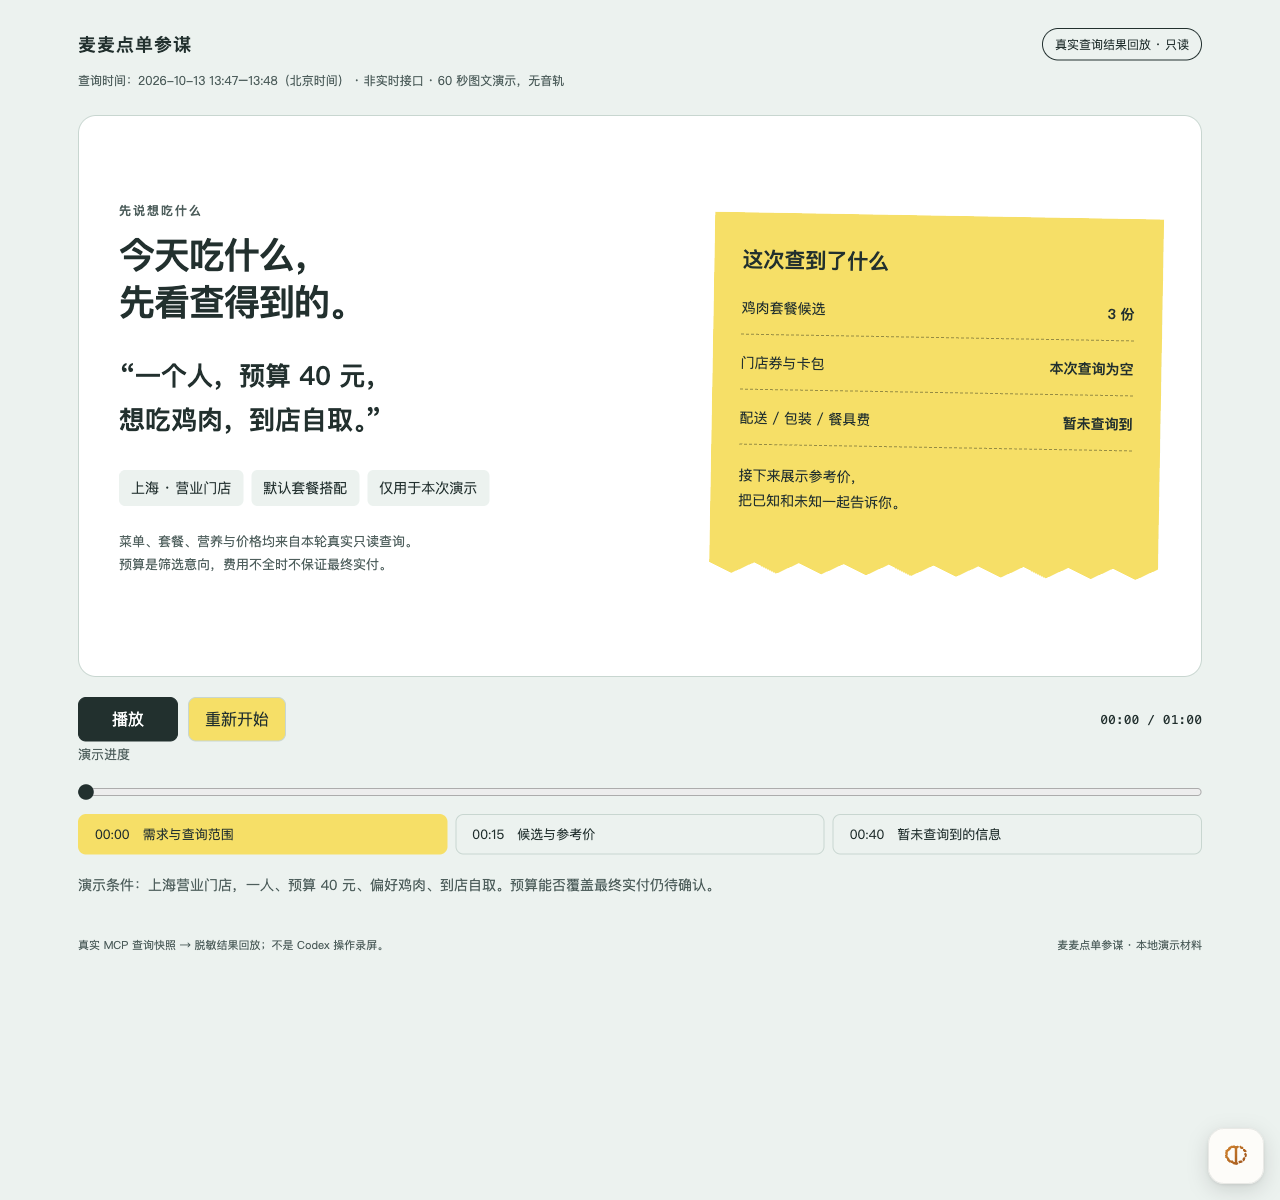
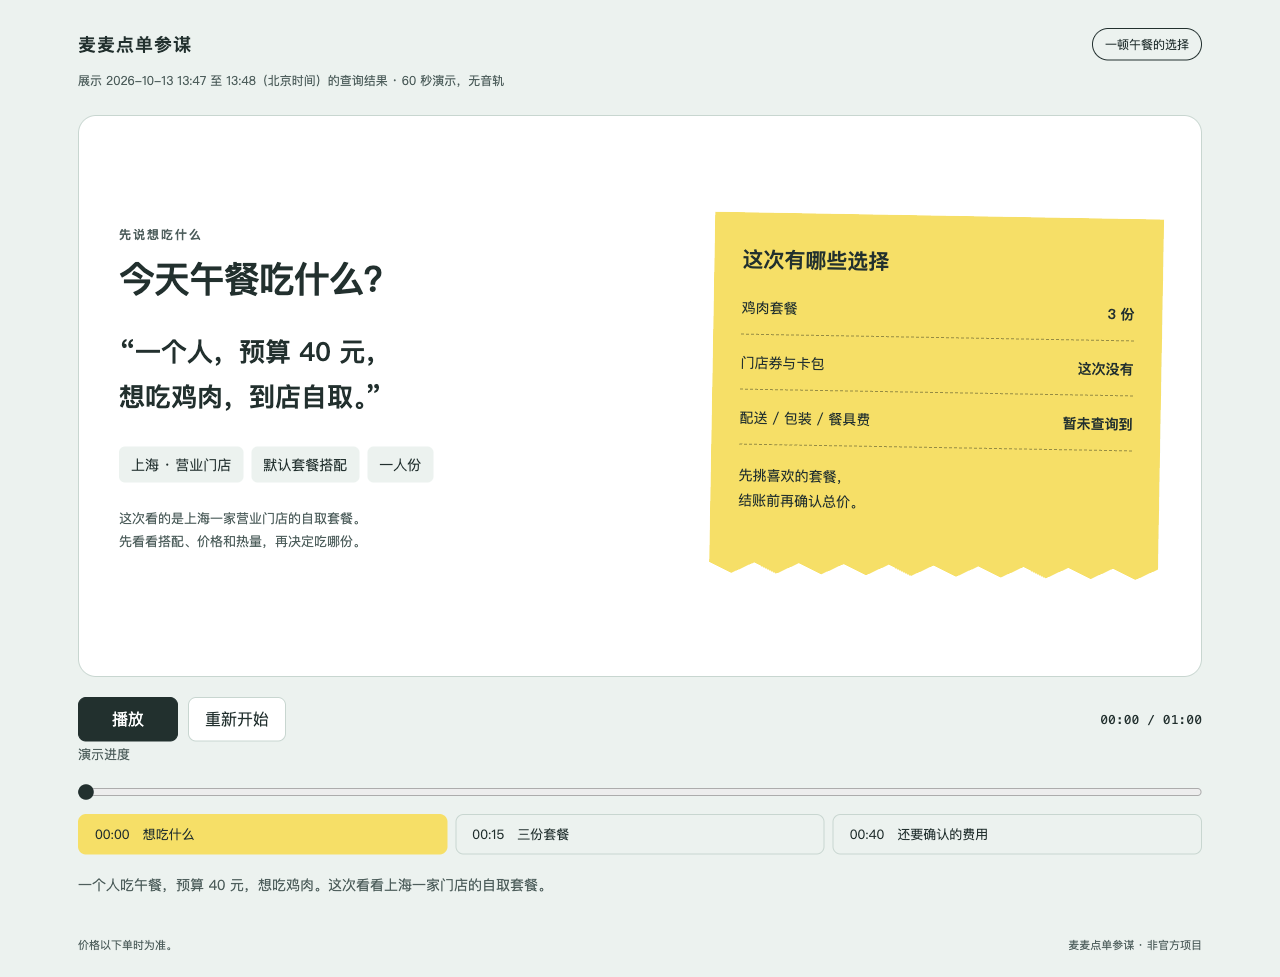
docs: 精简演示文案并更新截图

diff --git a/docs/demos/readonly-2026-10-13/index.html b/docs/demos/readonly-2026-10-13/index.html
@@ -2,27 +2,27 @@
 <html lang="zh-CN">
 <head>
 <meta charset="utf-8"><meta name="viewport" content="width=device-width,initial-scale=1">
-<title>麦麦点单参谋 · 真实只读查询回放</title>
+<title>麦麦点单参谋 · 午餐怎么选</title>
 <style>
 :root{--ink:#203735;--muted:#536a67;--yellow:#ffe169;--paper:#fff;--bg:#edf4f1;--line:#ccdcd6;--orange:#ad411b}
 *{box-sizing:border-box}body{margin:0;background:var(--bg);color:var(--ink);font-family:"PingFang SC","Microsoft YaHei",sans-serif}button,input{font:inherit}button{cursor:pointer}button:focus-visible,input:focus-visible,a:focus-visible{outline:3px solid var(--orange);outline-offset:4px}button{border:1px solid var(--line);border-radius:8px;background:white;color:var(--ink);padding:10px 16px}button:hover{background:var(--yellow)}.shell{max-width:1200px;margin:0 auto;padding:28px 38px 24px}.masthead{display:flex;justify-content:space-between;gap:24px;align-items:center;font-size:14px}.brand{font-weight:750;letter-spacing:1px;font-size:18px}.badge{border:1px solid var(--ink);padding:7px 12px;border-radius:30px;font-size:12px}.snapshot{font-size:12px;color:var(--muted);margin:12px 0 26px}.viewer{background:white;border-radius:18px;overflow:hidden;border:1px solid var(--line);min-height:560px}.scene{padding:36px 40px;min-height:560px}.scene[hidden]{display:none}.eyebrow{font-size:12px;font-weight:700;color:var(--muted);letter-spacing:2px}.scene h1,.scene h2{font-size:36px;line-height:1.3;margin:13px 0 16px;letter-spacing:-1px;font-weight:800}.lede{font-size:17px;line-height:1.8;color:var(--muted);margin:0 0 24px}.intro{display:grid;grid-template-columns:1.2fr 1fr;gap:54px;align-items:center;min-height:488px}.prompt{font-size:26px;font-weight:650;line-height:1.7;margin:28px 0}.chips{display:flex;flex-wrap:wrap;gap:8px}.chips span{background:var(--bg);padding:8px 12px;border-radius:6px;font-size:14px}.receipt{background:var(--yellow);padding:32px 28px;transform:rotate(1deg);box-shadow:8px 10px 0 var(--bg);clip-path:polygon(0 0,100% 0,100% 97%,95% 100%,90% 97%,85% 100%,80% 97%,75% 100%,70% 97%,65% 100%,60% 97%,55% 100%,50% 97%,45% 100%,40% 97%,35% 100%,30% 97%,25% 100%,20% 97%,15% 100%,10% 97%,5% 100%,0 97%)}.receipt h3{font-size:21px;margin:0 0 24px}.receipt p{display:flex;justify-content:space-between;border-bottom:1px dashed #a49547;padding-bottom:16px;margin:18px 0;font-size:14px}.receipt p:last-child{border:0;display:block;line-height:1.8;margin-bottom:12px}.cards{display:grid;grid-template-columns:repeat(3,1fr);gap:16px;margin:26px 0 20px}.meal{border:1px solid var(--line);border-radius:12px;padding:23px 20px 20px;background:var(--paper)}.meal h3{font-size:19px;margin:0 0 12px}.meal .parts{font-size:13px;color:var(--muted);line-height:1.8;min-height:47px;margin:0}.price-label{font-size:12px;color:var(--muted);margin:20px 0 3px}.price{font-family:"Avenir Next",sans-serif;font-weight:700;font-size:44px;letter-spacing:-2px;font-variant-numeric:tabular-nums}.price small{font-size:22px;letter-spacing:0;margin-right:5px}.nutrition{border-top:1px solid var(--line);margin-top:17px;padding-top:17px;font-size:14px;line-height:1.6}.nutrition strong{font-size:19px}.missing{color:var(--orange)}.note{font-size:13px;line-height:1.8;color:var(--muted)}.callout{padding:16px 20px;background:var(--yellow);border-radius:8px;font-size:15px;line-height:1.7}.unknown-grid{display:grid;grid-template-columns:1.15fr 1fr;gap:32px;margin:24px 0}.fees{border-top:1px solid var(--line)}.fee{display:flex;justify-content:space-between;gap:16px;padding:18px 0;border-bottom:1px solid var(--line);font-size:16px}.fee strong{color:var(--orange);font-weight:600}.explanation{background:var(--bg);border-radius:12px;padding:22px;font-size:15px;line-height:1.9}.explanation h3{margin:0 0 8px;font-size:20px}.explanation p{margin:0 0 12px}.explanation p:last-child{margin:0}.readonly{display:flex;gap:18px;align-items:center;margin-top:22px;font-size:14px}.readonly strong{padding:8px 12px;background:var(--ink);color:white;border-radius:5px}.controls{margin-top:20px}.control-row{display:flex;align-items:center;gap:10px}.primary{background:var(--ink);color:white;border-color:var(--ink);min-width:100px}.primary:hover{background:#345b57}.time{font-family:monospace;font-size:13px;white-space:nowrap;margin-left:auto}input[type=range]{width:100%;accent-color:var(--ink);margin:18px 0 14px;cursor:pointer}.chapters{display:flex;gap:8px}.chapters button{flex:1;text-align:left;font-size:13px;background:transparent}.chapters button[aria-current=true]{background:var(--yellow);border-color:transparent}.caption{min-height:45px;font-size:14px;line-height:1.8;color:var(--muted);margin:18px 0 0}.footer{display:flex;justify-content:space-between;gap:20px;font-size:11px;color:var(--muted);margin-top:20px}.footer a{color:inherit}.scene{animation:appear .35s ease}@keyframes appear{from{opacity:0;transform:translateY(5px)}to{opacity:1;transform:none}}@media(prefers-reduced-motion:reduce){.scene{animation:none}.receipt{transform:none}}@media(max-width:760px){.shell{padding:20px 16px}.masthead{align-items:flex-start;gap:10px}.brand{font-size:16px}.badge{font-size:10px}.snapshot{line-height:1.7;margin-bottom:18px}.scene{padding:28px 22px}.intro,.unknown-grid{grid-template-columns:1fr;gap:26px}.intro{min-height:0}.scene h1,.scene h2{font-size:29px}.prompt{font-size:22px}.receipt{transform:none}.cards{grid-template-columns:1fr}.meal .parts{min-height:0}.meal{position:relative}.price{font-size:38px}.viewer,.scene{min-height:0}.chapters{flex-direction:column}.footer{flex-direction:column;gap:8px}.readonly{align-items:flex-start;flex-direction:column;gap:10px}.caption{min-height:75px}}
 </style></head>
 <body><main class="shell">
-<header class="masthead"><div class="brand">麦麦点单参谋</div><span class="badge">真实查询结果回放 · 只读</span></header>
-<p class="snapshot">查询时间：2026-10-13 13:47–13:48（北京时间） · 非实时接口 · 60 秒图文演示，无音轨</p>
+<header class="masthead"><div class="brand">麦麦点单参谋</div><span class="badge">一顿午餐的选择</span></header>
+<p class="snapshot">展示 2026-10-13 13:47 至 13:48（北京时间）的查询结果 · 60 秒演示，无音轨</p>
 <div class="viewer">
-<section class="scene" id="scene-0" aria-label="演示条件"><div class="intro"><div><div class="eyebrow">先说想吃什么</div><h1>今天吃什么，<br>先看查得到的。</h1><p class="prompt">“一个人，预算 40 元，<br>想吃鸡肉，到店自取。”</p><div class="chips"><span>上海 · 营业门店</span><span>默认套餐搭配</span><span>仅用于本次演示</span></div><p class="note" style="margin-top:24px">菜单、套餐、营养与价格均来自本轮真实只读查询。<br>预算是筛选意向，费用不全时不保证最终实付。</p></div><aside class="receipt"><h3>这次查到了什么</h3><p><span>鸡肉套餐候选</span><strong>3 份</strong></p><p><span>门店券与卡包</span><strong>本次查询为空</strong></p><p><span>配送 / 包装 / 餐具费</span><strong>暂未查询到</strong></p><p>接下来展示参考价，<br>把已知和未知一起告诉你。</p></aside></div></section>
-<section class="scene" id="scene-1" aria-label="候选参考价" hidden><div class="eyebrow">三个候选，按口味选</div><h2>参考价摆出来，缺项也摆出来。</h2><p class="lede">均为同一门店、到店自取的默认三件套；以下不是最终实付。</p><div class="cards">
-<article class="meal"><h3>龙焰鸡腿堡三件套</h3><p class="parts">龙焰鸡腿堡<br>中薯条 + 可乐中杯</p><p class="price-label">参考价</p><div class="price"><small>¥</small>26.90</div><div class="nutrition missing">套餐热量<br><strong>暂未查询到</strong></div><p class="note">营养表缺少龙焰鸡腿堡的匹配记录。</p></article>
-<article class="meal"><h3>麦辣鸡腿汉堡三件套</h3><p class="parts">麦辣鸡腿汉堡<br>中薯条 + 可乐中杯</p><p class="price-label">参考价</p><div class="price"><small>¥</small>33.50</div><div class="nutrition">套餐热量约 <strong>921 kcal</strong></div><p class="note">按三个单品的营养记录相加。</p></article>
-<article class="meal"><h3>板烧鸡腿堡三件套</h3><p class="parts">板烧鸡腿堡<br>中薯条 + 可乐中杯</p><p class="price-label">参考价</p><div class="price"><small>¥</small>34.50</div><div class="nutrition">套餐热量约 <strong>827 kcal</strong></div><p class="note">按三个单品的营养记录相加。</p></article></div><div class="callout">配送费、包装费、餐具费：<strong>暂未查询到，完整费用仍待确认。</strong></div><p class="note">不按完整含费价格排名，也不据此保证 40 元内能买到。以上是查询时点的快照，价格可能变化。</p></section>
-<section class="scene" id="scene-2" aria-label="未知信息与边界" hidden><div class="eyebrow">不确定，就说清楚</div><h2>暂未查询到，不能按 0 元算。</h2><p class="lede">这次可以看套餐和参考价；最终费用还需要确认。</p><div class="unknown-grid"><div class="fees"><div class="fee"><span>配送费</span><strong>暂未查询到</strong></div><div class="fee"><span>包装费</span><strong>暂未查询到</strong></div><div class="fee"><span>餐具费</span><strong>暂未查询到</strong></div><p class="note">即使选择到店自取，也没有把缺失费用推定为零。</p></div><div class="explanation"><h3>这次建议到哪里为止？</h3><p>先按口味比较三个套餐，参考价为 ¥26.90–¥34.50。龙焰套餐的总热量仍未知。</p><p>门店券与卡包本次查询均为空。缺少完整费用和优惠资格证据，暂不给出“凑券更省”的结论。</p></div></div><div class="readonly"><strong>全程只读</strong><span>未领券 · 未下单 · 未支付</span></div><p class="note">此页面只回放已脱敏的结果，播放与切换章节不会请求麦当劳接口。</p></section>
+<section class="scene" id="scene-0" aria-label="午餐需求"><div class="intro"><div><div class="eyebrow">先说想吃什么</div><h1>今天午餐吃什么？</h1><p class="prompt">“一个人，预算 40 元，<br>想吃鸡肉，到店自取。”</p><div class="chips"><span>上海 · 营业门店</span><span>默认套餐搭配</span><span>一人份</span></div><p class="note" style="margin-top:24px">这次看的是上海一家营业门店的自取套餐。<br>先看看搭配、价格和热量，再决定吃哪份。</p></div><aside class="receipt"><h3>这次有哪些选择</h3><p><span>鸡肉套餐</span><strong>3 份</strong></p><p><span>门店券与卡包</span><strong>这次没有</strong></p><p><span>配送 / 包装 / 餐具费</span><strong>暂未查询到</strong></p><p>先挑喜欢的套餐，<br>结账前再确认总价。</p></aside></div></section>
+<section class="scene" id="scene-1" aria-label="候选参考价" hidden><div class="eyebrow">套餐放在一起看</div><h2>这三份套餐，你想吃哪份？</h2><p class="lede">都配中薯条和中杯可乐，按同一家门店的自取套餐查询。</p><div class="cards">
+<article class="meal"><h3>龙焰鸡腿堡三件套</h3><p class="parts">龙焰鸡腿堡<br>中薯条 + 可乐中杯</p><p class="price-label">参考价</p><div class="price"><small>¥</small>26.90</div><div class="nutrition missing">套餐热量<br><strong>暂未查询到</strong></div><p class="note">还没查到这款汉堡的营养数据。</p></article>
+<article class="meal"><h3>麦辣鸡腿汉堡三件套</h3><p class="parts">麦辣鸡腿汉堡<br>中薯条 + 可乐中杯</p><p class="price-label">参考价</p><div class="price"><small>¥</small>33.50</div><div class="nutrition">套餐热量约 <strong>921 kcal</strong></div><p class="note">汉堡、薯条和可乐的热量合计。</p></article>
+<article class="meal"><h3>板烧鸡腿堡三件套</h3><p class="parts">板烧鸡腿堡<br>中薯条 + 可乐中杯</p><p class="price-label">参考价</p><div class="price"><small>¥</small>34.50</div><div class="nutrition">套餐热量约 <strong>827 kcal</strong></div><p class="note">汉堡、薯条和可乐的热量合计。</p></article></div><div class="callout">配送费、包装费、餐具费暂未查询到，<strong>结账总额还不能确定。</strong></div><p class="note">这里列的是当时的参考价。能否在 40 元内结账，还要等费用确认。</p></section>
+<section class="scene" id="scene-2" aria-label="还要确认的费用" hidden><div class="eyebrow">结账前再看一眼</div><h2>这顿饭一共多少钱？</h2><p class="lede">套餐价格查到了，另外三项费用还没查到。</p><div class="unknown-grid"><div class="fees"><div class="fee"><span>配送费</span><strong>暂未查询到</strong></div><div class="fee"><span>包装费</span><strong>暂未查询到</strong></div><div class="fee"><span>餐具费</span><strong>暂未查询到</strong></div><p class="note">选了到店自取，也不能把没查到的费用算作 0 元。</p></div><div class="explanation"><h3>优惠券这次用得上吗？</h3><p>这次查询的门店券和卡包都是空的。</p><p>还不能判断加购凑券是否划算。可以先按口味选，再确认结账总额。</p></div></div><div class="readonly"><strong>仅供选餐参考</strong><span>这个页面不会领券、下单或付款。</span></div><p class="note">播放展示的是当时的查询结果，价格不会随播放刷新。</p></section>
 </div>
-<div class="controls"><div class="control-row"><button class="primary" id="play" type="button">播放</button><button id="restart" type="button">重新开始</button><output class="time" id="time">00:00 / 01:00</output></div><label for="seek" class="note">演示进度</label><input id="seek" type="range" min="0" max="60" step="0.1" value="0" aria-label="演示进度（秒）"><nav class="chapters" aria-label="演示章节"><button type="button" data-start="0" aria-current="true">00:00　需求与查询范围</button><button type="button" data-start="15" aria-current="false">00:15　候选与参考价</button><button type="button" data-start="40" aria-current="false">00:40　暂未查询到的信息</button></nav><p class="caption" id="caption" aria-live="polite"></p></div>
-<footer class="footer"><span>真实 MCP 查询快照 → 脱敏结果回放；不是 Codex 操作录屏。</span><span>麦麦点单参谋 · 本地演示材料</span></footer>
+<div class="controls"><div class="control-row"><button class="primary" id="play" type="button">播放</button><button id="restart" type="button">重新开始</button><output class="time" id="time">00:00 / 01:00</output></div><label for="seek" class="note">演示进度</label><input id="seek" type="range" min="0" max="60" step="0.1" value="0" aria-label="演示进度（秒）"><nav class="chapters" aria-label="演示章节"><button type="button" data-start="0" aria-current="true">00:00　想吃什么</button><button type="button" data-start="15" aria-current="false">00:15　三份套餐</button><button type="button" data-start="40" aria-current="false">00:40　还要确认的费用</button></nav><p class="caption" id="caption" aria-live="polite"></p></div>
+<footer class="footer"><span>价格以下单时为准。</span><span>麦麦点单参谋 · 非官方项目</span></footer>
 </main>
 <script>
-const captions=["演示条件：上海营业门店，一人、预算 40 元、偏好鸡肉、到店自取。预算能否覆盖最终实付仍待确认。","三个默认套餐的参考价为 26.90、33.50、34.50 元。麦辣和板烧套餐的热量来自单品记录合计，龙焰套餐热量暂未查询到。","配送、包装和餐具费用暂未查询到，不当成零。此次只展示候选，不保证完整预算，不判断凑券收益，全程没有领券或下单。"];
+const captions=["一个人吃午餐，预算 40 元，想吃鸡肉。这次看看上海一家门店的自取套餐。","三份套餐参考价分别是 26.90、33.50、34.50 元。麦辣和板烧套餐的热量按单品相加，龙焰套餐的热量还没查全。","配送、包装和餐具费用还没查到，所以暂时算不出结账总额，也不能判断凑券是否更省。"];
 const play=document.querySelector('#play'),seek=document.querySelector('#seek'),timer=document.querySelector('#time');let elapsed=0,playing=false,last=0,scene=-1,frame=0;
 function render(){const next=elapsed<15?0:elapsed<40?1:2;if(next!==scene){scene=next;document.querySelectorAll('.scene').forEach((el,i)=>el.hidden=i!==scene);document.querySelectorAll('[data-start]').forEach((el,i)=>el.setAttribute('aria-current',String(i===scene)));document.querySelector('#caption').textContent=captions[scene]}seek.value=elapsed;timer.textContent=`${Math.floor(elapsed/60).toString().padStart(2,'0')}:${Math.floor(elapsed%60).toString().padStart(2,'0')} / 01:00`;play.textContent=playing?'暂停':elapsed>=60?'再播放':'播放'}
 function tick(now){if(!playing)return;elapsed=Math.min(60,elapsed+(now-last)/1000);last=now;if(elapsed>=60)playing=false;render();if(playing)frame=requestAnimationFrame(tick)}

diff --git a/README.md b/README.md
@@ -4,15 +4,15 @@
 
 核心问题：**为了满减加一份，最后会不会反而多付？** 只在官方优惠条件和两份完整报价都明确时给结论，缺数据就说明「暂未查询到，仍待确认」，内部状态保持 `unknown`。钱包、营养目标、口味三种排序及随机推荐都以当前工具数据和用户主动偏好为依据。
 
-## 60 秒真实只读结果回放
+## 用一分钟看看怎么选餐
 
 [直接打开并播放演示](https://imulan.top/mai-mai-order-advisor/) · [HTML 源文件](docs/demos/readonly-2026-10-13/index.html) · [需求截图](docs/demos/readonly-2026-10-13/01-context.png) · [参考价截图](docs/demos/readonly-2026-10-13/02-reference-prices.png) · [未知信息截图](docs/demos/readonly-2026-10-13/03-unknown-fees.png)
 
 点击上方在线入口，再点“播放”，无需 Token。也可下载或克隆仓库，用浏览器打开 `docs/demos/readonly-2026-10-13/index.html` 离线播放。支持暂停、重新开始、进度拖动和章节切换，无音轨。
 
-GitHub Pages 仅发布该演示目录；`main` 上的演示内容或部署工作流变更会自动更新站点。在线版仍是固定查询快照，不连接真实点餐接口。
+GitHub Pages 仅发布该演示目录；`main` 上的演示内容或部署工作流变更会自动更新站点。页面展示一次查询的结果，不会更新价格或替你点餐。
 
-这段演示回放 **2026-10-13 13:47–13:48（北京时间）的真实只读查询快照**，不是实时接口页面或 Codex 操作录屏。样例条件为上海同一营业门店、到店自取、一人、预算意向 40 元、偏好鸡肉；三个默认套餐均配中薯条和可乐中杯。
+演示使用 2026-10-13 13:47 至 13:48（北京时间）的真实查询结果：一个人，预算 40 元，想吃鸡肉，到店自取。三份套餐来自上海同一家营业门店，都配中薯条和中杯可乐。
 
 | 候选 | 查询时参考价 | 套餐热量 |
 | --- | ---: | --- |
@@ -22,7 +22,7 @@ GitHub Pages 仅发布该演示目录；`main` 上的演示内容或部署工作
 
 **配送费、包装费、餐具费均暂未查询到，完整费用仍待确认。** 参考价不是最终实付，不能保证 40 元内结账；本次门店券与卡包查询均为空，不作凑券省钱结论。快照不代表后续价格，实际使用时需重新查询。
 
-![真实只读查询的三个候选、参考价和费用缺项](docs/demos/readonly-2026-10-13/02-reference-prices.png)
+![三份鸡肉套餐的参考价、热量和待确认费用](docs/demos/readonly-2026-10-13/02-reference-prices.png)
 
 ### 此演示已验证的范围
 
@@ -30,7 +30,7 @@ GitHub Pages 仅发布该演示目录；`main` 上的演示内容或部署工作
 - 浏览器已验证三段播放、终点停止、暂停、重新开始、章节切换和键盘进度控制；桌面截图已查看，手机宽度下无横向溢出，减少动态效果模式生效。
 - 页面与截图只保留脱敏摘要，没有凭据、账号、地址、订单号或支付链接；播放不请求麦当劳接口。查询和演示全程未领券、未下单、未支付。
 
-完整含费推荐、预算保证、真实凑券收益、Codex 桌面技能选择器、重启后独立聊天自动触发、真人审批界面和真实交易链路仍未验收。浏览器验证中曾汇总一次无堆栈的脚本警告，重新加载并监听错误后未复现，来源未确定；不将其描述为全程零告警。
+完整结账费用、凑券是否划算，以及领券下单流程仍未验证。安装和交易限制见下方“验证与能力边界”。
 
 ## 30 秒离线模拟演示
 
